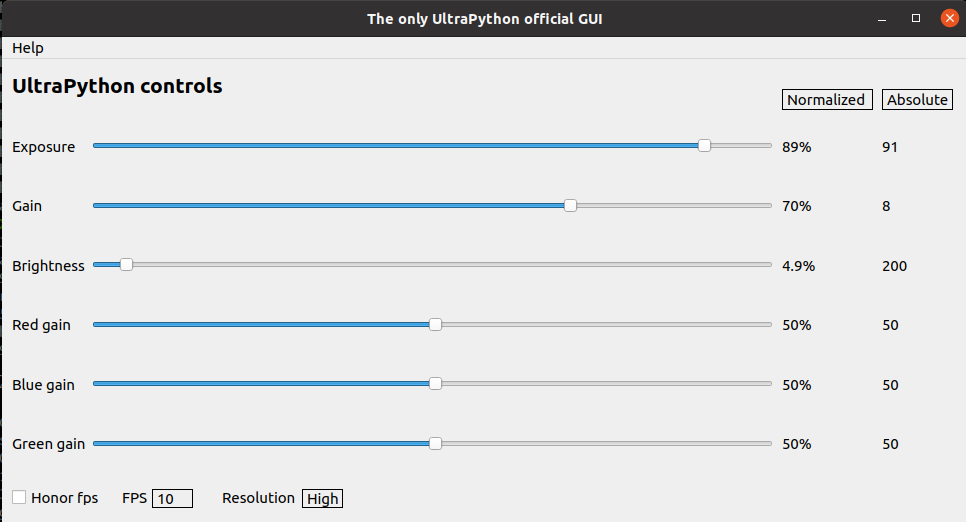
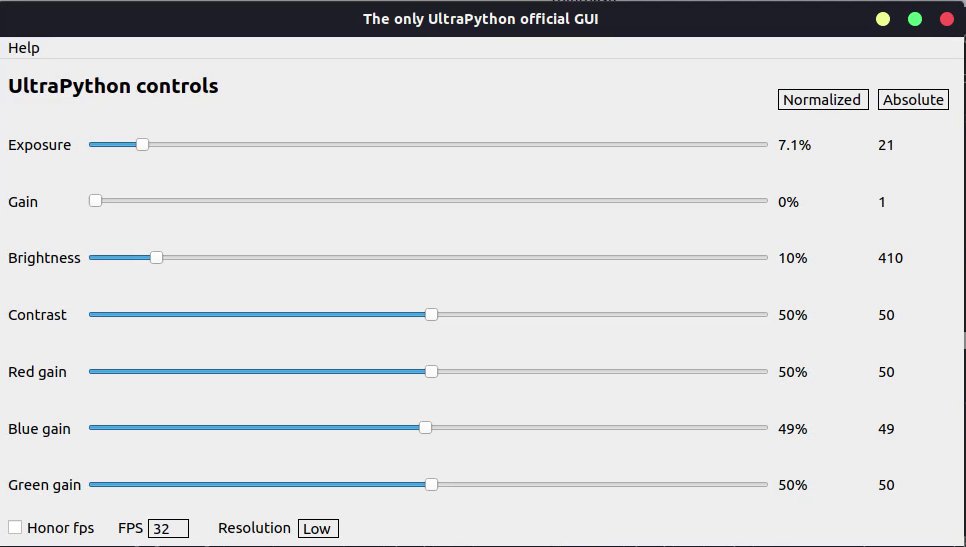
Add contrast control to GUI
* Added contrast slider to gui

* updated gitignore with build folder

* added constants for contrast

* added case for contrast

* added contrast slider release function

* added contrast values display

* added case related to contrast

* fixed contrast value display

* Added contrast tests

* added contrast const to remaining switch cases and default value

* Fixed get and set of contrast

* updated readme with contrast

diff --git a/src/devices/ultrapython/unittest/testDefalutOrNotUsedParam.cpp b/src/devices/ultrapython/unittest/testDefalutOrNotUsedParam.cpp
@@ -61,6 +61,7 @@ TEST(UltraPython, hasControls_ok)
 
 	// when
 	EXPECT_TRUE(FeatureHelper::exists(YARP_FEATURE_BRIGHTNESS));
+	EXPECT_TRUE(FeatureHelper::exists(YARP_FEATURE_CONTRAST));
 	EXPECT_TRUE(FeatureHelper::exists(YARP_FEATURE_SHUTTER));
 	EXPECT_TRUE(FeatureHelper::exists(YARP_FEATURE_EXPOSURE));
 	EXPECT_TRUE(FeatureHelper::exists(YARP_FEATURE_GAIN));
@@ -70,6 +71,7 @@ TEST(UltraPython, hasControls_ok)
 	EXPECT_TRUE(FeatureHelper::exists(YARP_FEATURE_GAIN_ABSOLUTE));
 	EXPECT_TRUE(FeatureHelper::exists(YARP_FEATURE_EXPOSURE_ABSOLUTE));
 	EXPECT_TRUE(FeatureHelper::exists(YARP_FEATURE_BRIGHTNESS_ABSOLUTE));
+	EXPECT_TRUE(FeatureHelper::exists(YARP_FEATURE_CONTRAST_ABSOLUTE));
 	EXPECT_TRUE(FeatureHelper::exists(YARP_FEATURE_FPS));
 	EXPECT_TRUE(FeatureHelper::exists(YARP_FEATURE_HONOR_FPS));
 	EXPECT_TRUE(FeatureHelper::exists(YARP_FEATURE_SUBSAMPLING));
@@ -78,6 +80,7 @@ TEST(UltraPython, hasControls_ok)
 	EXPECT_TRUE(FeatureHelper::exists(YARP_FEATURE_GREEN_GAIN_ABSOLUTE));
 
 	EXPECT_TRUE(FeatureHelper::existsForWrite(YARP_FEATURE_BRIGHTNESS));
+	EXPECT_TRUE(FeatureHelper::existsForWrite(YARP_FEATURE_CONTRAST));
 	EXPECT_TRUE(FeatureHelper::existsForWrite(YARP_FEATURE_SHUTTER));
 	EXPECT_TRUE(FeatureHelper::existsForWrite(YARP_FEATURE_EXPOSURE));
 	EXPECT_TRUE(FeatureHelper::existsForWrite(YARP_FEATURE_GAIN));
@@ -87,6 +90,7 @@ TEST(UltraPython, hasControls_ok)
 	EXPECT_TRUE(FeatureHelper::existsForWrite(YARP_FEATURE_GAIN_ABSOLUTE));
 	EXPECT_TRUE(FeatureHelper::existsForWrite(YARP_FEATURE_EXPOSURE_ABSOLUTE));
 	EXPECT_TRUE(FeatureHelper::existsForWrite(YARP_FEATURE_BRIGHTNESS_ABSOLUTE));
+	EXPECT_TRUE(FeatureHelper::existsForWrite(YARP_FEATURE_CONTRAST_ABSOLUTE));
 	EXPECT_FALSE(FeatureHelper::existsForWrite(YARP_FEATURE_FPS));
 	EXPECT_TRUE(FeatureHelper::existsForWrite(YARP_FEATURE_HONOR_FPS));
 	EXPECT_FALSE(FeatureHelper::existsForWrite(YARP_FEATURE_SUBSAMPLING));
@@ -95,6 +99,7 @@ TEST(UltraPython, hasControls_ok)
 	EXPECT_TRUE(FeatureHelper::existsForWrite(YARP_FEATURE_GREEN_GAIN_ABSOLUTE));
 
 	EXPECT_TRUE(FeatureHelper::existsForRead(YARP_FEATURE_BRIGHTNESS));
+	EXPECT_TRUE(FeatureHelper::existsForRead(YARP_FEATURE_CONTRAST));
 	EXPECT_TRUE(FeatureHelper::existsForRead(YARP_FEATURE_SHUTTER));
 	EXPECT_TRUE(FeatureHelper::existsForRead(YARP_FEATURE_EXPOSURE));
 	EXPECT_TRUE(FeatureHelper::existsForRead(YARP_FEATURE_GAIN));
@@ -104,6 +109,7 @@ TEST(UltraPython, hasControls_ok)
 	EXPECT_TRUE(FeatureHelper::existsForRead(YARP_FEATURE_GAIN_ABSOLUTE));
 	EXPECT_TRUE(FeatureHelper::existsForRead(YARP_FEATURE_EXPOSURE_ABSOLUTE));
 	EXPECT_TRUE(FeatureHelper::existsForRead(YARP_FEATURE_BRIGHTNESS_ABSOLUTE));
+	EXPECT_TRUE(FeatureHelper::existsForWrite(YARP_FEATURE_CONTRAST_ABSOLUTE));
 	EXPECT_TRUE(FeatureHelper::existsForRead(YARP_FEATURE_FPS));
 	EXPECT_TRUE(FeatureHelper::existsForRead(YARP_FEATURE_HONOR_FPS));
 	EXPECT_TRUE(FeatureHelper::existsForRead(YARP_FEATURE_SUBSAMPLING));
@@ -112,6 +118,7 @@ TEST(UltraPython, hasControls_ok)
 	EXPECT_TRUE(FeatureHelper::existsForRead(YARP_FEATURE_GREEN_GAIN_ABSOLUTE));
 
 	EXPECT_FALSE(FeatureHelper::isAbsolute(YARP_FEATURE_BRIGHTNESS));
+	EXPECT_FALSE(FeatureHelper::isAbsolute(YARP_FEATURE_CONTRAST));
 	EXPECT_FALSE(FeatureHelper::isAbsolute(YARP_FEATURE_SHUTTER));
 	EXPECT_FALSE(FeatureHelper::isAbsolute(YARP_FEATURE_EXPOSURE));
 	EXPECT_FALSE(FeatureHelper::isAbsolute(YARP_FEATURE_GAIN));
@@ -121,6 +128,7 @@ TEST(UltraPython, hasControls_ok)
 	EXPECT_TRUE(FeatureHelper::isAbsolute(YARP_FEATURE_GAIN_ABSOLUTE));
 	EXPECT_TRUE(FeatureHelper::isAbsolute(YARP_FEATURE_EXPOSURE_ABSOLUTE));
 	EXPECT_TRUE(FeatureHelper::isAbsolute(YARP_FEATURE_BRIGHTNESS_ABSOLUTE));
+	EXPECT_TRUE(FeatureHelper::isAbsolute(YARP_FEATURE_CONTRAST_ABSOLUTE));
 	EXPECT_FALSE(FeatureHelper::isAbsolute(YARP_FEATURE_FPS));
 	EXPECT_FALSE(FeatureHelper::isAbsolute(YARP_FEATURE_HONOR_FPS));
 	EXPECT_FALSE(FeatureHelper::isAbsolute(YARP_FEATURE_SUBSAMPLING));

diff --git a/src/devices/ultrapython/unittest/testControlContrast.cpp b/src/devices/ultrapython/unittest/testControlContrast.cpp
@@ -1,0 +1,80 @@
+/*
+ * Copyright (C) 2006-2021 Istituto Italiano di Tecnologia (IIT)
+ *
+ * This library is free software; you can redistribute it and/or
+ * modify it under the terms of the GNU Lesser General Public
+ * License as published by the Free Software Foundation; either
+ * version 2.1 of the License, or (at your option) any later version.
+ *
+ * This library is distributed in the hope that it will be useful,
+ * but WITHOUT ANY WARRANTY; without even the implied warranty of
+ * MERCHANTABILITY or FITNESS FOR A PARTICULAR PURPOSE.  See the GNU
+ * Lesser General Public License for more details.
+ *
+ * You should have received a copy of the GNU Lesser General Public
+ * License along with this library; if not, write to the Free Software
+ * Foundation, Inc., 51 Franklin Street, Fifth Floor, Boston, MA  02110-1301 USA
+ */
+
+#include <linux/v4l2-controls.h>
+
+#include <chrono>
+#include <thread>
+
+#include "../UltraPythonCameraHelper.h"
+#include "CApiMock.h"
+#include "../Statistics.h"
+#include "gmock/gmock.h"
+#include "gtest/gtest.h"
+
+using namespace std::chrono_literals;
+using namespace testing;
+
+TEST(UltraPython, setContrast_absolute_ok) {
+    // given 
+    InterfaceFoCApiMock *interface = new InterfaceFoCApiMock();
+    UltraPythonCameraHelper helper(interface);
+    helper.setStepPeriod(100);
+
+    struct v4l2_control control1;
+    control1.id = V4L2_CID_CONTRAST;
+    control1.value = 20;
+    EXPECT_CALL(*interface, ioctl_query_c(_, _, _))
+        .WillOnce(Return(1))
+        .WillOnce(Return(1));
+    EXPECT_CALL(*interface, ioctl_control_c(_, VIDIOC_S_CTRL, control1)).Times(2);
+
+    // when
+    bool result = helper.setControl(V4L2_CID_CONTRAST, 20, true);
+
+    // then
+    EXPECT_TRUE(result);
+
+    delete interface;
+}
+
+TEST(UltraPython, setContrast_relative_ok) {
+  // given
+  InterfaceFoCApiMock *interface = new InterfaceFoCApiMock();
+  	UltraPythonCameraHelper helper(interface);
+  helper.setStepPeriod(100);
+
+  struct v4l2_queryctrl queryctrl;
+  queryctrl.maximum = 0;
+  queryctrl.minimum = 100;
+  struct v4l2_control control1;
+  control1.id = V4L2_CID_CONTRAST;
+  control1.value = 50;
+  EXPECT_CALL(*interface, ioctl_query_c(_, VIDIOC_QUERYCTRL, _))
+      .WillOnce(DoAll(SetArgReferee<2>(queryctrl), Return(1)))
+      .WillOnce(DoAll(SetArgReferee<2>(queryctrl), Return(1)));
+  EXPECT_CALL(*interface, ioctl_control_c(_, VIDIOC_S_CTRL, control1)).Times(2);
+
+  // when
+  bool res = helper.setControl(V4L2_CID_CONTRAST, 0.50, false);
+
+  // then
+  EXPECT_TRUE(res);
+
+  delete interface;
+}

diff --git a/src/devices/ultrapython/UltraPythonCameraHelper.cpp b/src/devices/ultrapython/UltraPythonCameraHelper.cpp
@@ -896,6 +896,7 @@ bool UltraPythonCameraHelper::setControl(uint32_t v4lCtrl, double value, bool ab
 		case V4L2_BLUEBALANCE_ULTRA_PYTHON:	  // V4L2_CID_BLUE_BALANCE
 		case V4L2_DEADTIME_ULTRA_PYTHON:	  // trg_h
 		case V4L2_EXPOSURE_ULTRA_PYTHON:	  // EXPOSURE trg_l
+		case V4L2_CONTRAST_ULTRA_PYTHON:
 			return setControl(v4lCtrl, mainSubdeviceFd_, value, absolute);
 		default:
 			return false;
@@ -1031,6 +1032,7 @@ double UltraPythonCameraHelper::getControl(uint32_t v4lCtrl, bool absolute)
 		case V4L2_BLUEBALANCE_ULTRA_PYTHON:	  // V4L2_CID_BLUE_BALANCE
 		case V4L2_EXPOSURE_ULTRA_PYTHON:	  // EXPOSURE trg_l
 		case V4L2_DEADTIME_ULTRA_PYTHON:	  // trg_h
+		case V4L2_CONTRAST_ULTRA_PYTHON:	  // Contrast
 			return getControl(v4lCtrl, mainSubdeviceFd_, absolute);
 		default:
 			return -1.0;
@@ -1098,6 +1100,7 @@ bool UltraPythonCameraHelper::internalHasControl(uint32_t v4lCtrl) const
 		case V4L2_CID_GAIN:
 		case V4L2_ANALOGGAIN_ULTRA_PYTHON:
 		case V4L2_CID_BRIGHTNESS:
+		case V4L2_CONTRAST_ULTRA_PYTHON:
 		case V4L2_REDBALANCE_ULTRA_PYTHON:	  // V4L2_CID_RED_BALANCE
 		case V4L2_GREENBALANCE_ULTRA_PYTHON:  // V4L2_CID_GREEN_BALANCE
 		case V4L2_BLUEBALANCE_ULTRA_PYTHON:	  // V4L2_CID_BLUE_BALANCE
@@ -1118,7 +1121,8 @@ bool UltraPythonCameraHelper::setDefaultControl()
 	setControl(V4L2_EXTTRIGGGER_ULTRA_PYTHON, 1, true);		  // ext_trigger
 	setControl(V4L2_EXPOSURE_ULTRA_PYTHON, 20, true);		  // trg_l
 	setControl(V4L2_DEADTIME_ULTRA_PYTHON, deadTime_, true);  // trg_h
-	setControl(V4L2_CID_BRIGHTNESS, 200, true);
+	setControl(V4L2_CONTRAST_ULTRA_PYTHON, 50, true);
+	setControl(V4L2_CID_BRIGHTNESS, 50, true);
 	setControl(V4L2_CID_GAIN, 1, true);
 	return true;
 }

diff --git a/src/common/common.cpp b/src/common/common.cpp
@@ -25,6 +25,7 @@ bool FeatureHelper::existsForWrite(int feature)
 	switch (feature)
 	{
 		case YARP_FEATURE_BRIGHTNESS:
+		case YARP_FEATURE_CONTRAST:
 		case YARP_FEATURE_SHUTTER:
 		case YARP_FEATURE_EXPOSURE:
 		case YARP_FEATURE_GAIN:
@@ -34,6 +35,7 @@ bool FeatureHelper::existsForWrite(int feature)
 		case YARP_FEATURE_GAIN_ABSOLUTE:
 		case YARP_FEATURE_EXPOSURE_ABSOLUTE:
 		case YARP_FEATURE_BRIGHTNESS_ABSOLUTE:
+		case YARP_FEATURE_CONTRAST_ABSOLUTE:
 		case YARP_FEATURE_RED_GAIN_ABSOLUTE:
 		case YARP_FEATURE_BLUE_GAIN_ABSOLUTE:
 		case YARP_FEATURE_GREEN_GAIN_ABSOLUTE:
@@ -47,6 +49,7 @@ bool FeatureHelper::existsForRead(int feature)
 	switch (feature)
 	{
 		case YARP_FEATURE_BRIGHTNESS:
+		case YARP_FEATURE_CONTRAST:
 		case YARP_FEATURE_SHUTTER:
 		case YARP_FEATURE_EXPOSURE:
 		case YARP_FEATURE_GAIN:
@@ -56,6 +59,7 @@ bool FeatureHelper::existsForRead(int feature)
 		case YARP_FEATURE_GAIN_ABSOLUTE:
 		case YARP_FEATURE_EXPOSURE_ABSOLUTE:
 		case YARP_FEATURE_BRIGHTNESS_ABSOLUTE:
+		case YARP_FEATURE_CONTRAST_ABSOLUTE:
 		case YARP_FEATURE_FPS:
 		case YARP_FEATURE_SUBSAMPLING:
 		case YARP_FEATURE_RED_GAIN_ABSOLUTE:
@@ -79,6 +83,7 @@ bool FeatureHelper::isAbsolute(int feature)
 		case YARP_FEATURE_GAIN_ABSOLUTE:
 		case YARP_FEATURE_EXPOSURE_ABSOLUTE:
 		case YARP_FEATURE_BRIGHTNESS_ABSOLUTE:
+		case YARP_FEATURE_CONTRAST_ABSOLUTE:
 		case YARP_FEATURE_RED_GAIN_ABSOLUTE:
 		case YARP_FEATURE_BLUE_GAIN_ABSOLUTE:
 		case YARP_FEATURE_GREEN_GAIN_ABSOLUTE:

diff --git a/src/ui/mainwindow.cpp b/src/ui/mainwindow.cpp
@@ -105,6 +105,29 @@ bool MainWindow::readAndShowValues()
 	ss << (int)brightnessAbsoluteValue;
 	ui->brightnessAbs->setText(ss.str().c_str());
 
+	feature = (int)YARP_FEATURE_CONTRAST;
+	double contrastValue;
+	res = grabber_->getFeature(feature, &contrastValue);
+	if (!res)
+	{
+		return false;
+	}
+	ss.str("");
+	ss << std::setprecision(2) << contrastValue * 100 << "%";
+	ui->contrastNorm->setText(ss.str().c_str());
+	ui->contrastSlider->setValue(contrastValue * 100);
+
+	feature = (int)YARP_FEATURE_CONTRAST_ABSOLUTE;
+	double contrastAbsoluteValue;
+	res = grabber_->getFeature(feature, &contrastAbsoluteValue);
+	if (!res)
+	{
+		return false;
+	}
+	ss.str("");
+	ss << (int)contrastAbsoluteValue;
+	ui->contrastAbs->setText(ss.str().c_str());
+
 	feature = (int)YARP_FEATURE_EXPOSURE;
 	double exposureValue;
 	res = grabber_->getFeature(feature, &exposureValue);
@@ -316,6 +339,22 @@ void MainWindow::on_brightnessSlider_sliderReleased()
 	if (!res)
 	{
 		emitError("brightness");
+		return;
+	}
+	readAndShowValues();
+}
+
+void MainWindow::on_contrastSlider_sliderReleased()
+{
+	int feature = (int)YARP_FEATURE_CONTRAST;
+	auto value = ui->contrastSlider->value();
+	double contrastValue = (double)value / 100;
+	std::cout << "Slider:" << contrastValue << std::endl;
+
+	bool res = grabber_->setFeature(feature, contrastValue);
+	if (!res)
+	{
+		emitError("contrast");
 		return;
 	}
 	readAndShowValues();

diff --git a/src/devices/ultrapython/UltraPythonDriver.cpp b/src/devices/ultrapython/UltraPythonDriver.cpp
@@ -385,6 +385,10 @@ int UltraPythonDriver::remapControlYARPtoXilinx(int feature) const
 		case YARP_FEATURE_BRIGHTNESS_ABSOLUTE:
 			yCDebug(ULTRAPYTHON) << "Feature " << feature << " does not support auto mode";
 			return V4L2_CID_BRIGHTNESS;
+		case YARP_FEATURE_CONTRAST:
+		case YARP_FEATURE_CONTRAST_ABSOLUTE:
+			yCDebug(ULTRAPYTHON) << "remap contrast";
+			return UltraPythonCameraHelper::V4L2_CONTRAST_ULTRA_PYTHON;
 		case YARP_FEATURE_SHUTTER:
 		case YARP_FEATURE_EXPOSURE:			  // shutter used
 		case YARP_FEATURE_EXPOSURE_ABSOLUTE:  // shutter used

diff --git a/src/devices/ultrapython/UltraPythonCameraHelper.h b/src/devices/ultrapython/UltraPythonCameraHelper.h
@@ -65,6 +65,8 @@ class UltraPythonCameraHelper
 	static constexpr unsigned int V4L2_GREENBALANCE_ULTRA_PYTHON{0x0098c9a4};  // Green Balance
 	static constexpr unsigned int V4L2_BLUEBALANCE_ULTRA_PYTHON{0x0098c9a5};   // Blue balance
 	static constexpr unsigned int V4L2_ANALOGGAIN_ULTRA_PYTHON{0x009e0903};	   // Analog gain
+	static constexpr unsigned int V4L2_CONTRAST_ULTRA_PYTHON{0x0098c9a2};	   // Contrast
+
 
    private:
 	// Main properties

diff --git a/src/common/common.h b/src/common/common.h
@@ -39,6 +39,8 @@ constexpr int YARP_FEATURE_GREEN_GAIN_ABSOLUTE = 65;
 constexpr int YARP_FEATURE_FPS = 70;
 constexpr int YARP_FEATURE_SUBSAMPLING = 72;
 constexpr int YARP_FEATURE_HONOR_FPS = 73;
+constexpr int YARP_FEATURE_CONTRAST = 74;
+constexpr int YARP_FEATURE_CONTRAST_ABSOLUTE = 75;
 
 class FeatureHelper
 {

diff --git a/src/devices/ultrapython/unittest/gtest_main.cc b/src/devices/ultrapython/unittest/gtest_main.cc
@@ -24,7 +24,7 @@ int main(int argc, char **argv) {
 	yarp::os::Network::init();
 
   ::testing::InitGoogleTest(&argc, argv);
-  //::testing::GTEST_FLAG(filter) = "UltraPython.openAll_ko_000";
+  ::testing::GTEST_FLAG(filter) = "UltraPython.setContrast_relative_ok";
 
   return RUN_ALL_TESTS();
 }

diff --git a/src/ui/mainwindow.h b/src/ui/mainwindow.h
@@ -58,6 +58,8 @@ class MainWindow : public QMainWindow
 
 	void on_brightnessSlider_sliderReleased();
 
+	void on_contrastSlider_sliderReleased();
+
 	void on_redGainSlider_sliderReleased();
 
 	void on_blueGainSlider_sliderReleased();

diff --git a/README.md b/README.md
@@ -319,13 +319,15 @@ Currently exposed parameters:
 |-|-|-|-|-|-|-|
 |Gain|YARP_FEATURE_GAIN|1|1|11|mapped to a combination of digital and analog gain of the board|R/W|
 |Exposure<br>Shutter|YARP_FEATURE_SHUTTER<br>YARP_FEATURE_EXPOSURE|20ms|1ms|50ms|mapped on **tag_l**|R/W|
-|Brightness|YARP_FEATURE_BRIGHTNESS|200|0|4055|-|R/W|
+|Brightness|YARP_FEATURE_BRIGHTNESS|50|0|4055|-|R/W|
+|Contrast|YARP_FEATURE_CONTRAST|50|0|100|-|R/W|
 |Red gain|YARP_FEATURE_RED_GAIN|50|0|99|-|R/W|
 |Blue gain|YARP_FEATURE_BLUE_GAIN|50|0|99|-|R/W|
 |Green gain|YARP_FEATURE_GREEN_GAIN|50|0|99|-|R/W|
 |Gain absolute|YARP_FEATURE_GAIN_ABSOLUTE|1|1|11|Only read for now|R|
 |Exposure absolute|YARP_FEATURE_EXPOSURE_ABSOLUTE|20ms|1ms|50ms|Only read for now|R|
 |Brightness absolute|YARP_FEATURE_BRIGHTNESS_ABSOLUTE|200|0|4055|Only read for now|R|
+|Contrast absolute|YARP_FEATURE_CONTRAST_ABSOLUTE|50|0|100|Only read for now|R|
 |Red gain absolute|YARP_FEATURE_RED_GAIN_ABSOLUTE|50|0|99|Only read for now|R|
 |Blue gain absolute|YARP_FEATURE_BLUE_GAIN_ABSOLUTE|50|0|99|Only read for now|R|
 |Green gain bsolute|YARP_FEATURE_GREEN_GAIN_ABSOLUTE|50|0|99|Only read for now|R|
